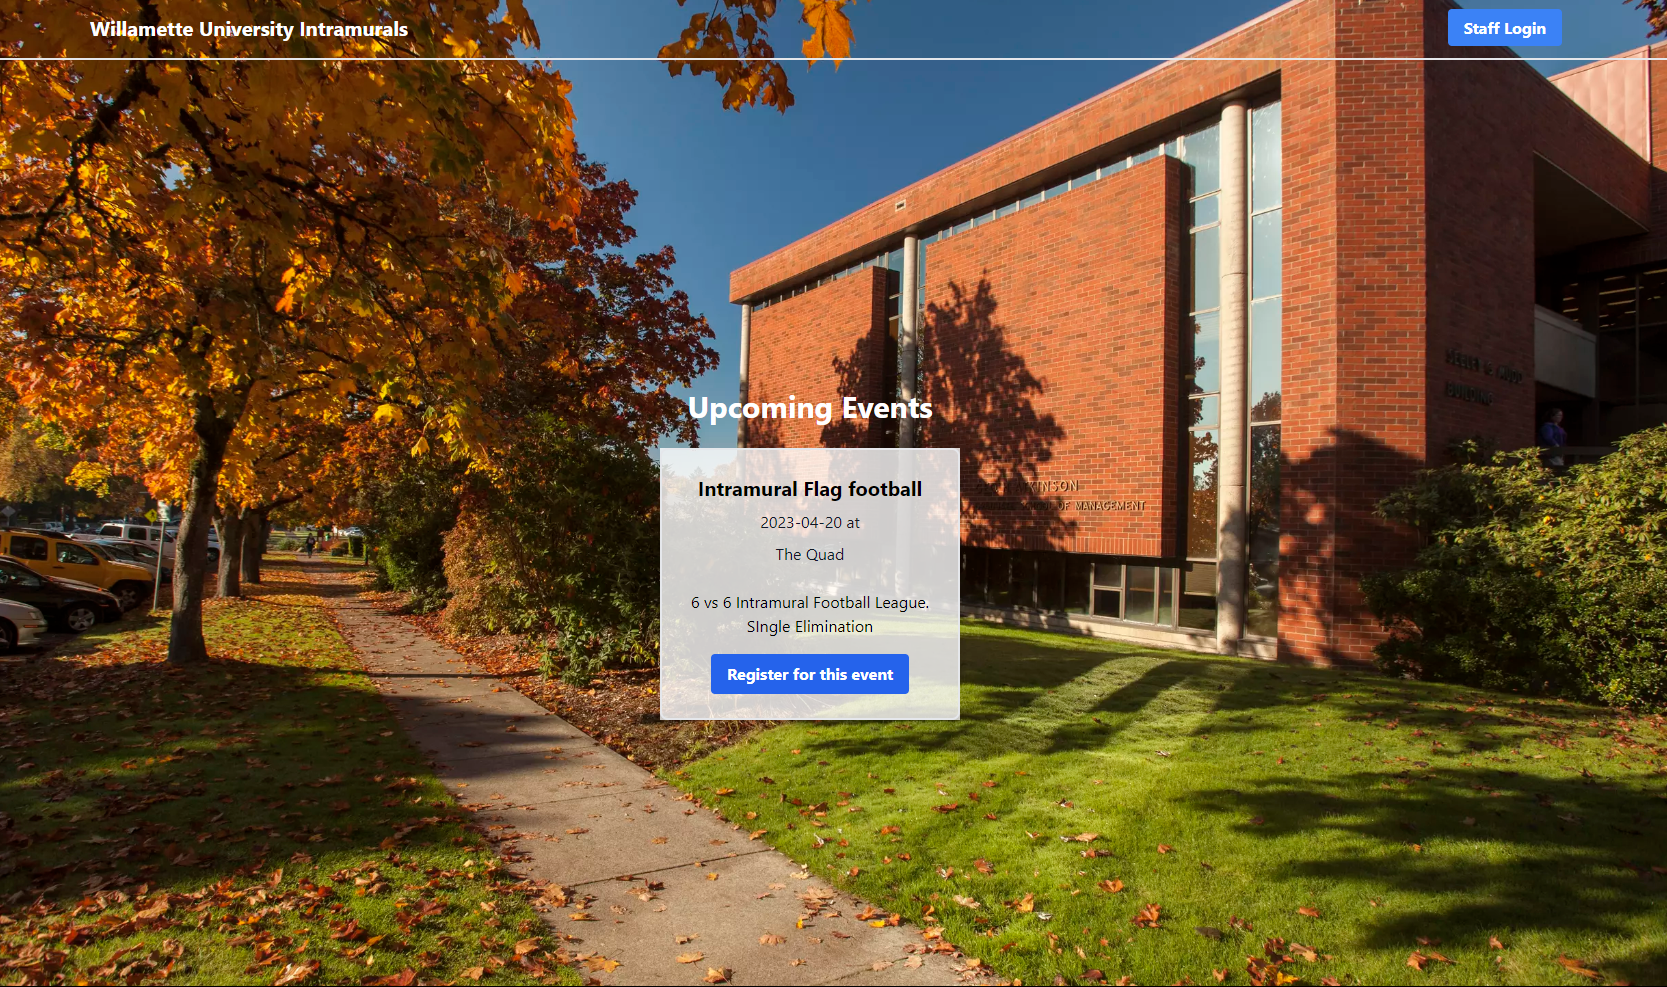
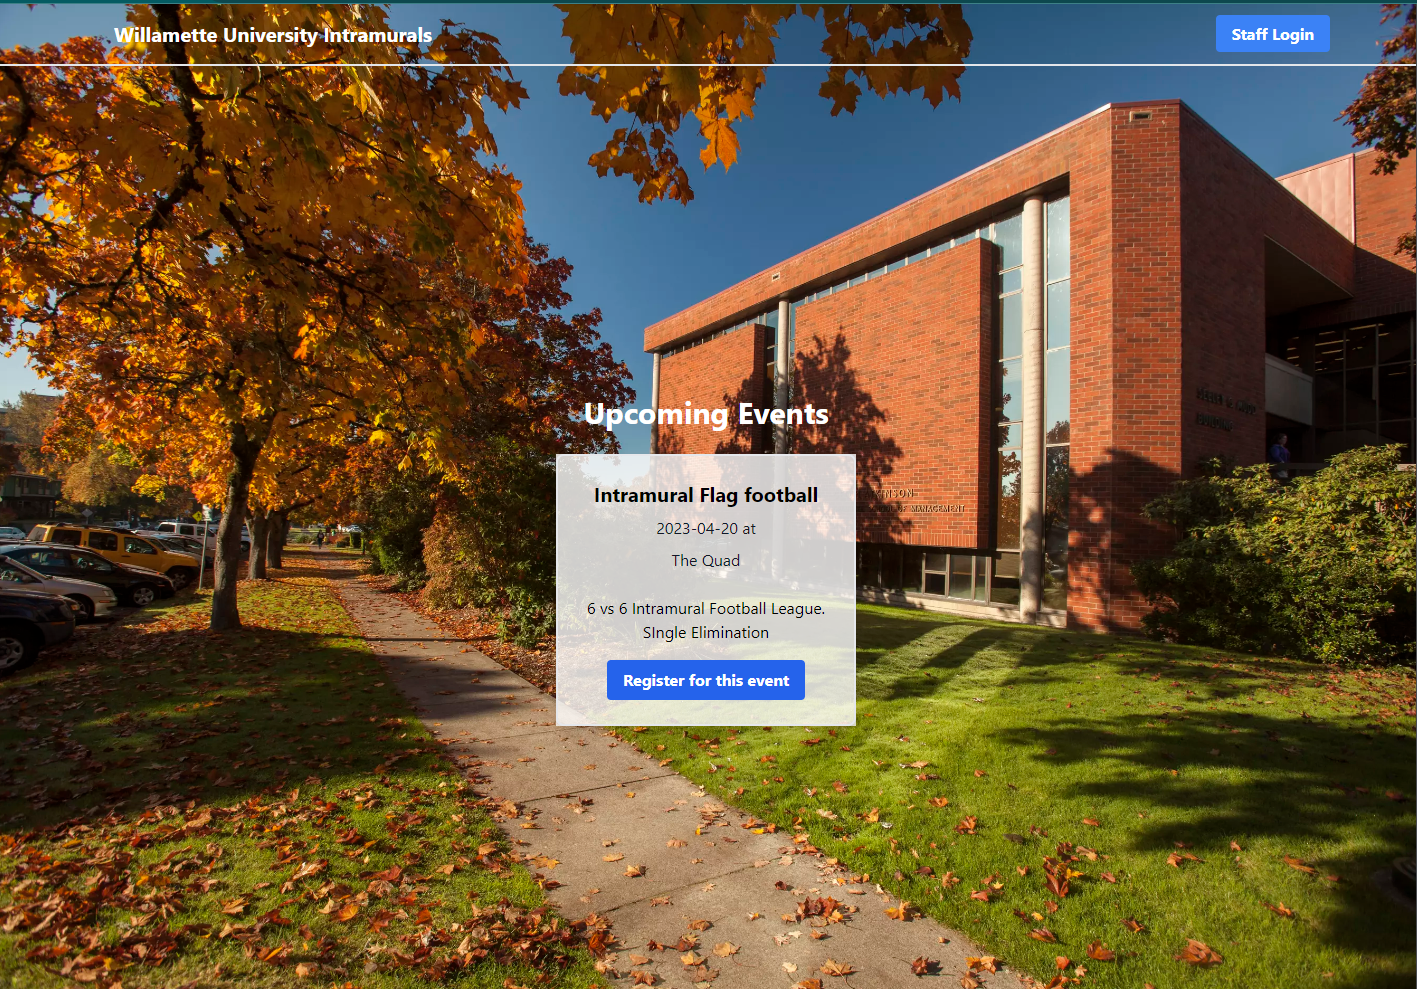
beta version completed, fixed design

diff --git a/assets/css/main.css b/assets/css/main.css
@@ -88,6 +88,7 @@ video {
   font-size: 100%;
   font: inherit;
   vertical-align: baseline;
+
 }
 
 article,
@@ -317,7 +318,7 @@ header.major h2 {
 
 .im-g{
 	height: 30vh !important;
-	max-width: 500px;
+	max-width: fit-content;
 	
 }
 
@@ -680,6 +681,9 @@ ul.icons li .icon:before {
     font-size: 1em;
   }
 
+  img{
+    max-width: 100px;
+  }
   /* Section/Article */
 
   section.special,
@@ -743,4 +747,8 @@ ul.icons li .icon:before {
 
 .project span a{
   margin-right: 5px;
+}
+
+img{
+  width: 400px;
 }
